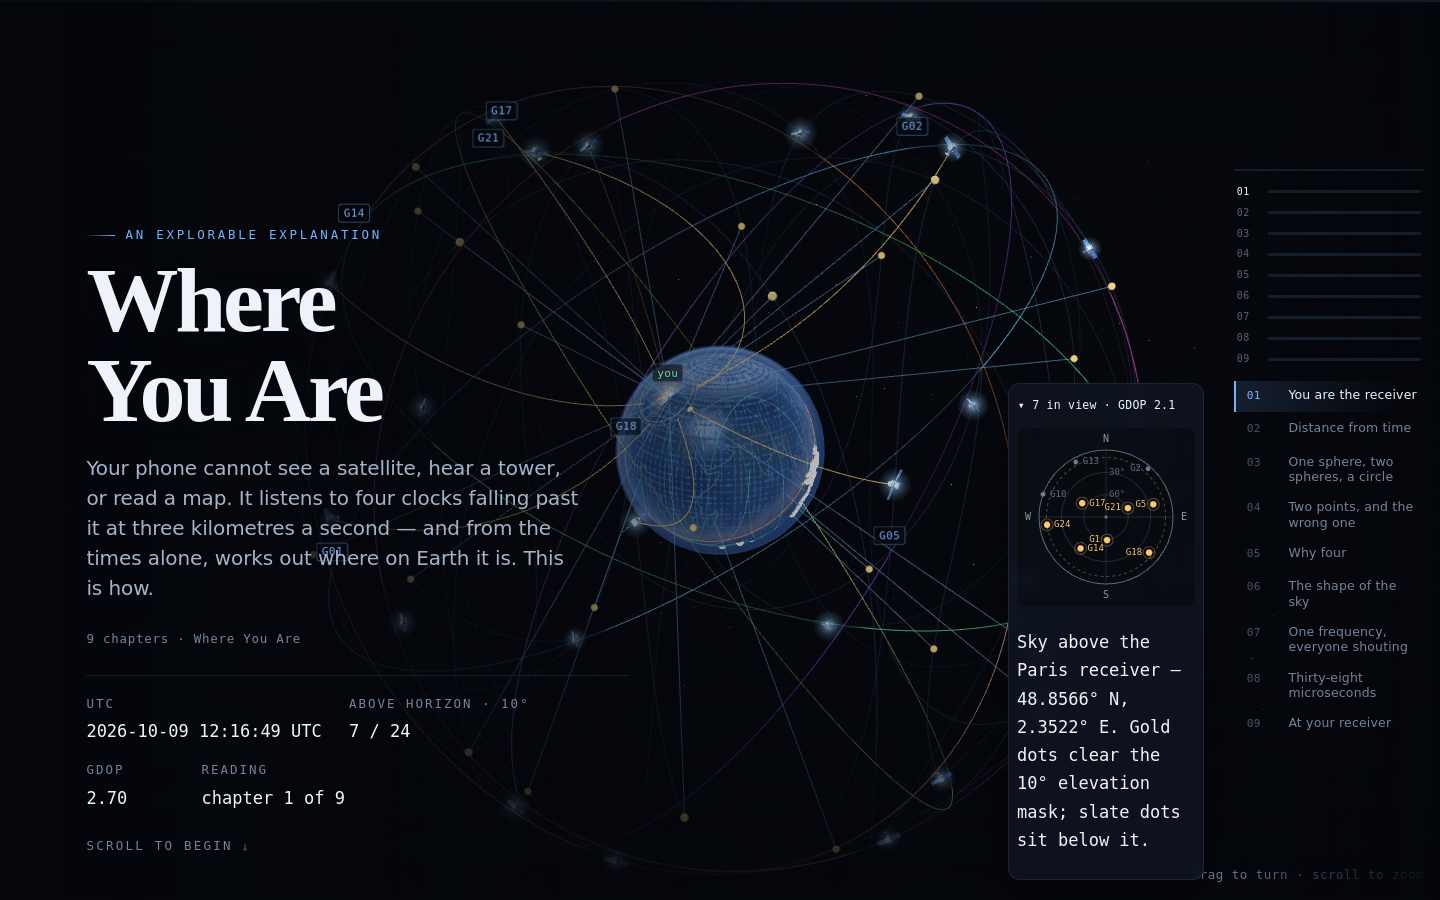
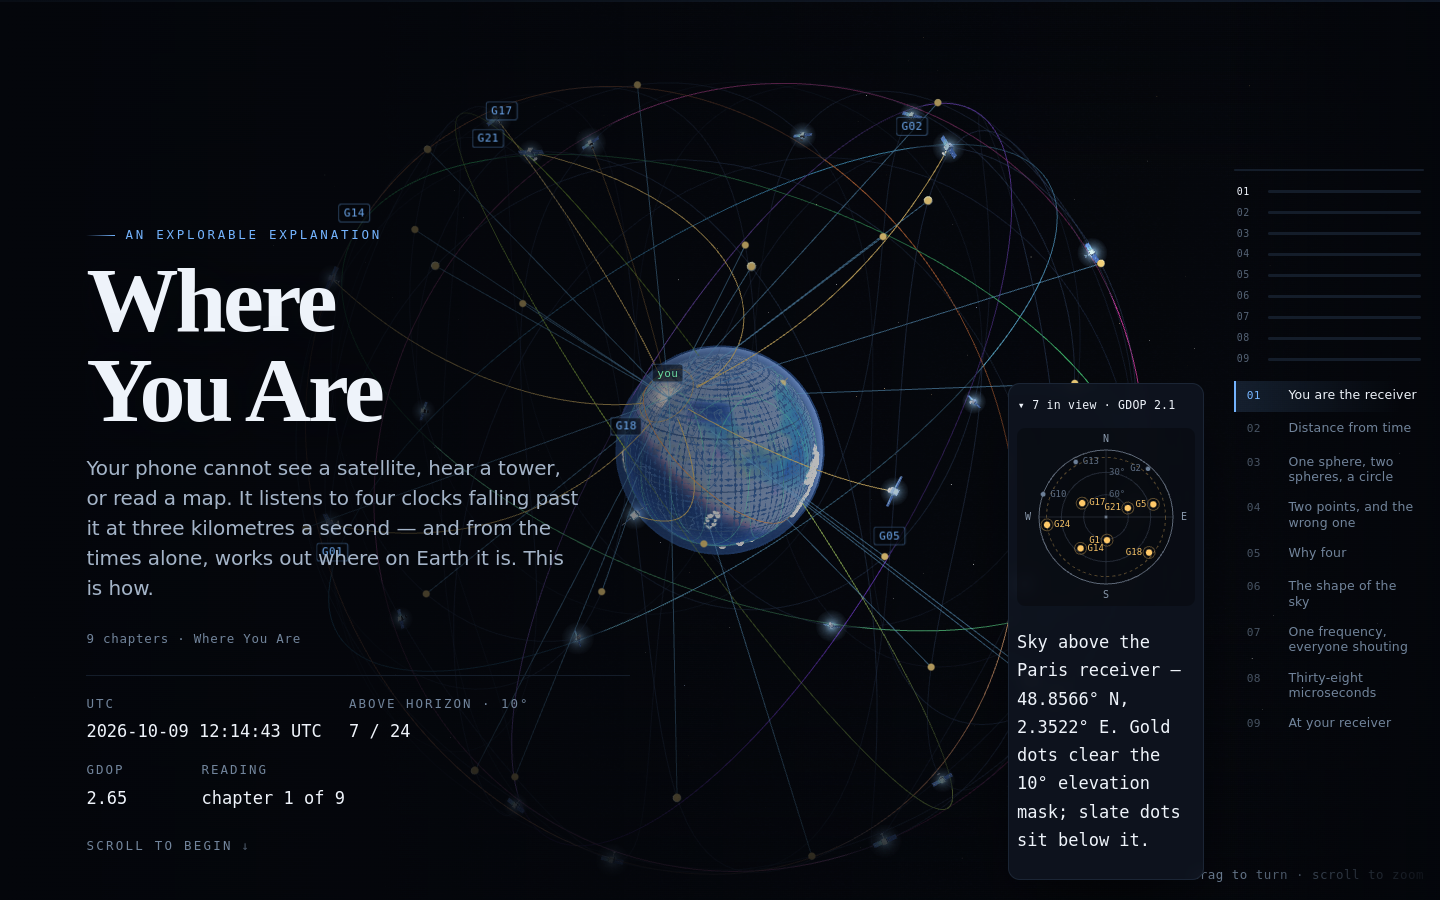
earth: screen-space exposure, side sun so the terminator reads, graticule off by default
The material's albedo is physical (deep ocean ~0.012), so at gain 1 the planet
rendered as a dark, uniformly lit disc that read as a wireframe placeholder.
- earth-material.js: uExposure uniform + setExposure(k) (API added, default 1.0)
- main.js: sun moved off the camera axis (0.62,0.33,0.71 -> -0.45,0.45,0.77) so a
  terminator crosses the disc; exposure 4.6; softness 0.30
- main.js: globe graticule off by default — continents stay, the lat/long grid
  was dominating the lit surface and reading as a wireframe

Measured: horizontal scanline across the disc splits 77.8 (night) / 111.6 (lit),
stddev 37.9 (was 30.7 flat). Harness 20/20.

diff --git a/js/gl/earth-material.js b/js/gl/earth-material.js
@@ -54,6 +54,7 @@ uniform vec4 color;
 uniform vec3 sunDir;
 uniform vec3 cameraPos;
 uniform float softness;
+uniform float exposure;
 out vec4 outColor;
 
 /* ---- value noise, purely procedural, no textures ---- */
@@ -117,7 +118,7 @@ void main() {
   float fres = pow(1.0 - max(dot(n, v), 0.0), 3.5);
   col += fres * vec3(0.30, 0.50, 0.92) * (0.25 + 0.85 * lam);
 
-  outColor = vec4(col, color.a);
+  outColor = vec4(col * exposure, color.a);
 }
 `;
 
@@ -186,6 +187,10 @@ export function createEarth(stage, opts = {}) {
 
   /* initial sun, roughly matching the globe default (0.75, 0.25, 0.6) */
   let softness = opts.softness ?? 0.22;
+  /* Photometric gain. The procedural albedo is deliberately physical — deep ocean
+     is ~0.012 — so at gain 1 the planet renders far darker than a screen wants.
+     The host sets this to bring the lit hemisphere into a readable range. */
+  let exposure = opts.exposure ?? 1.0;
   {
     const d = opts.sun ?? [0.75, 0.25, 0.6];
     const l = Math.hypot(d[0], d[1], d[2]) || 1;
@@ -206,6 +211,7 @@ export function createEarth(stage, opts = {}) {
       gl.uniform3fv(surfProg.u('sunDir'), sunVec);
       gl.uniform3fv(surfProg.u('cameraPos'), camVec);
       gl.uniform1f(surfProg.u('softness'), softness);
+      gl.uniform1f(surfProg.u('exposure'), exposure);
       gl.bindVertexArray(surfVao);
       gl.drawElements(gl.TRIANGLES, surfCount, gl.UNSIGNED_SHORT, 0);
       gl.bindVertexArray(null);
@@ -283,6 +289,13 @@ export function createEarth(stage, opts = {}) {
     /** Softness of the Lambert-to-warm terminator, in units of n·sun. */
     setTerminatorSoftness(k) {
       softness = Math.max(0.002, Number(k) || 0);
+      return this;
+    },
+
+    /** Photometric gain for the lit surface (1 = physically dark, ~3 = screen). */
+    setExposure(k) {
+      exposure = Math.max(0, Number(k));
+      if (!Number.isFinite(exposure)) exposure = 1;
       return this;
     },
 

diff --git a/js/main.js b/js/main.js
@@ -144,13 +144,18 @@ async function boot() {
   }
 
   // ---- scene dressing ----
-  // One light for the whole world, at a three-quarter angle, so the Earth reads
-  // as a lit planet with a terminator instead of a flat disc, and the night side
-  // has something to show. city.js exists but nothing consumed it: own it here.
-  const SUN = (() => { const v = [0.62, 0.33, 0.71]; const n = Math.hypot(v[0], v[1], v[2]); return v.map((x) => x / n); })();
+  // One light for the whole world, off to the side of the default camera, so the
+  // Earth shows a real terminator instead of a uniformly dim disc. The material's
+  // albedo is physical (deep ocean ~0.012), so it also needs screen gain.
+  const SUN = (() => { const v = [-0.45, 0.45, 0.77]; const n = Math.hypot(v[0], v[1], v[2]); return v.map((x) => x / n); })();
   state.sun = SUN;
   try { state.earth?.setSun?.(SUN); } catch (e) { console.warn('[sun]', e); }
+  try { state.earth?.setExposure?.(4.6); } catch { /* older material */ }
+  try { state.earth?.setTerminatorSoftness?.(0.30); } catch { /* optional */ }
   try { globe.setSun?.(SUN); } catch { /* optional */ }
+  // The lit surface is the subject; the graticule was reading as a wireframe demo.
+  // Continents stay (they are information), the lat/long grid goes.
+  try { globe.setGrid?.(false); } catch { /* optional */ }
   if (polish.createCityLights) {
     try {
       state.city = polish.createCityLights(stage, {});
